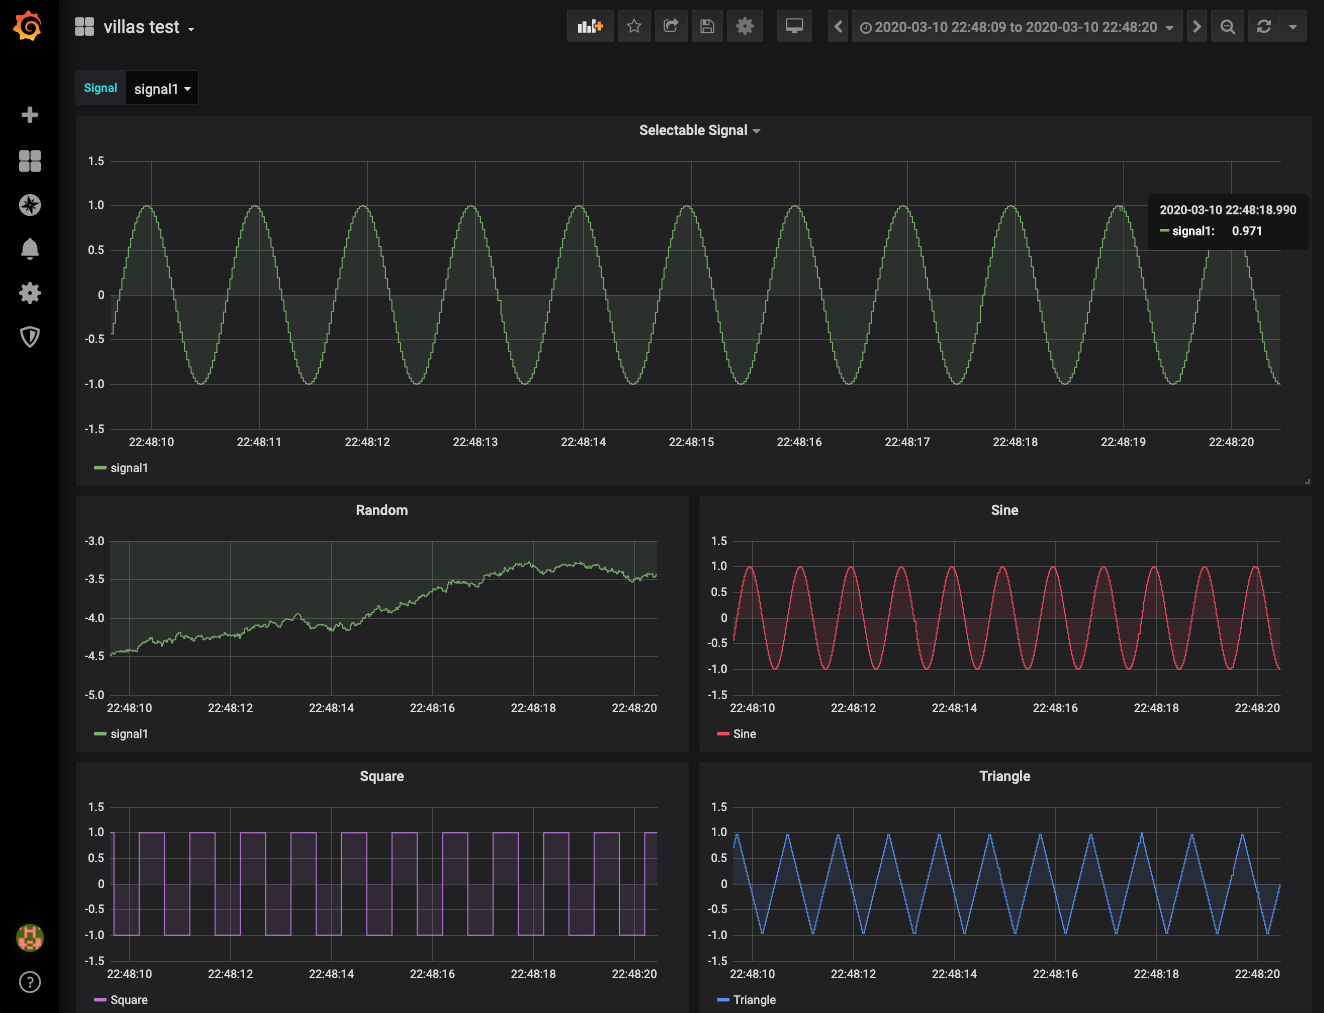
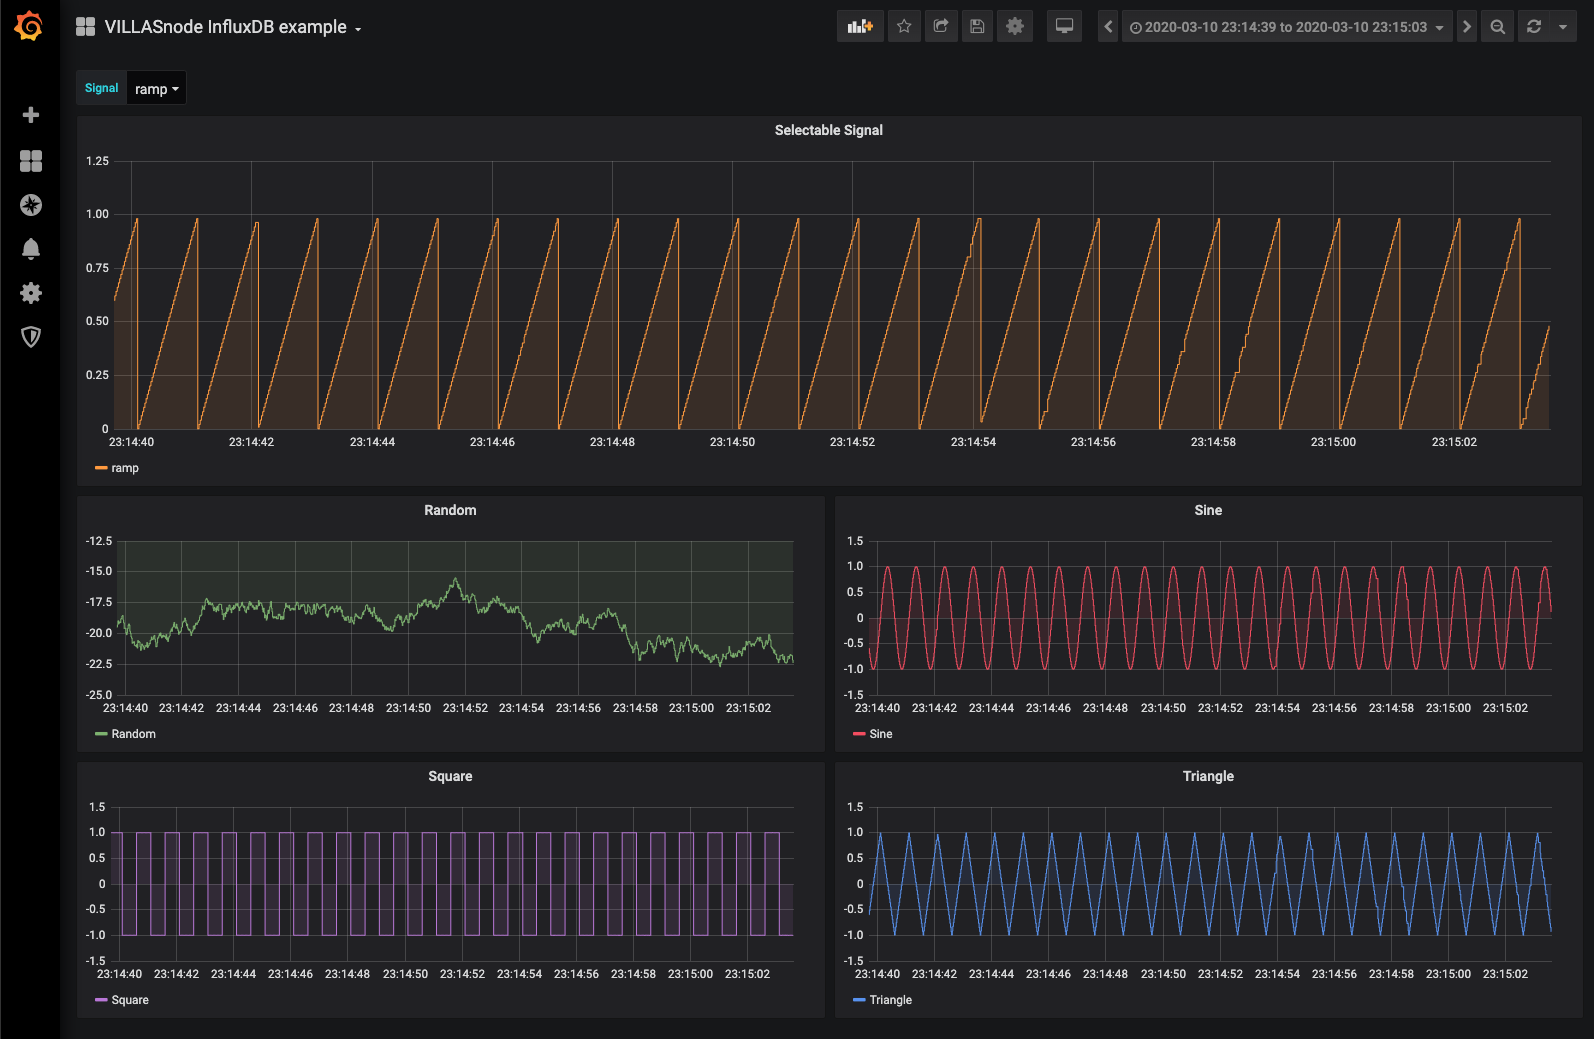
node: update lab 16 by running villas-node instead of villas-pipe

diff --git a/doc/node/labs/Lab16.md b/doc/node/labs/Lab16.md
@@ -51,12 +51,12 @@ Add a new dashboard to Grafana by importing the following file: [VILLAS test das
 
 ### influxdb.conf
 
-@include node/etc/examples/nodes/influxdb.conf
+@include node/etc/examples/nodes/grafana-influxdb/villas.conf
 
 ### Steps
 
-1. Add the following lines to a new file name `influxdb.conf`.
-2. Run to following command to generate test data which VILLAsnode will store in the InfluxDB database: `villas-signal mixed -v6 -r 50 | villas-pipe -s influxdb.conf influxdb_node`
+1. Add the following lines to a new file name `villas.conf`.
+2. Run to following command to generate test data which VILLAsnode will store in the InfluxDB database: `villas-node villas.conf`
 3. Return to Grafana to inspect the data
 
 ### Screenshot
